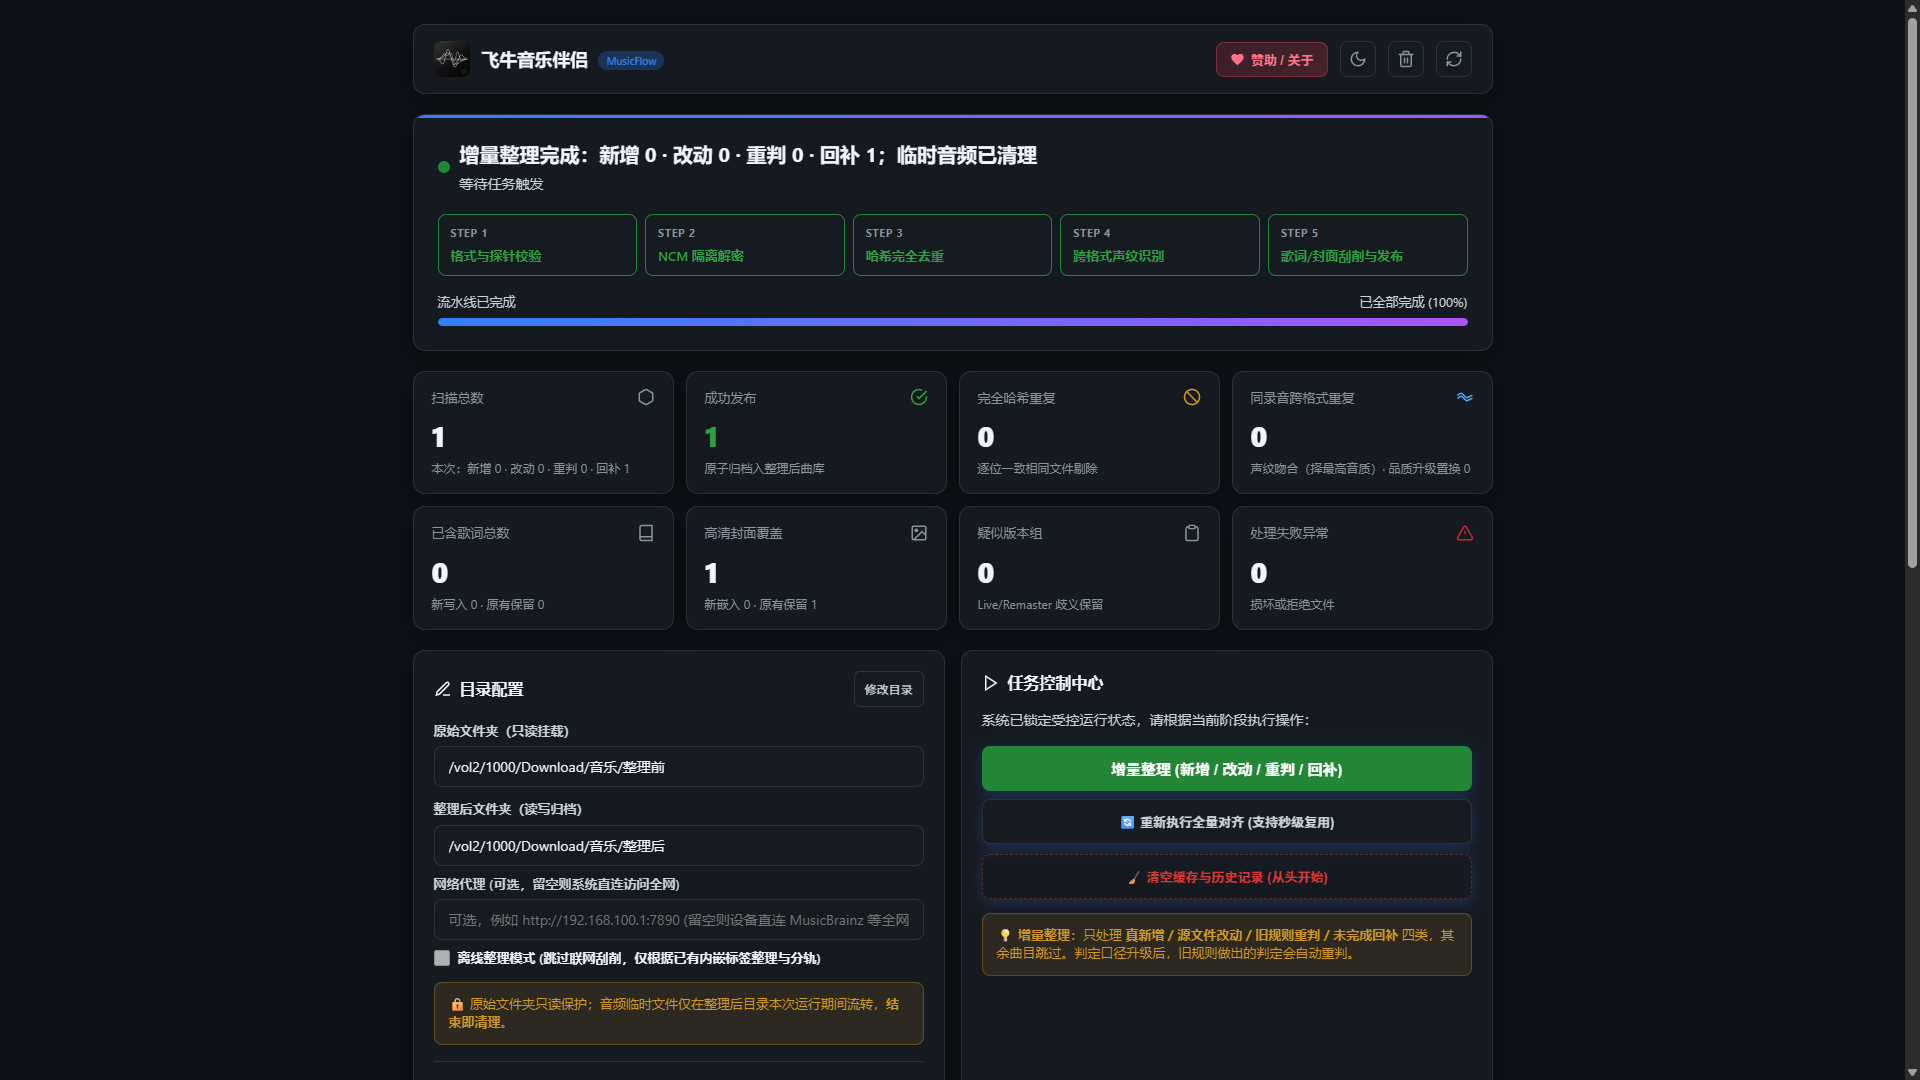
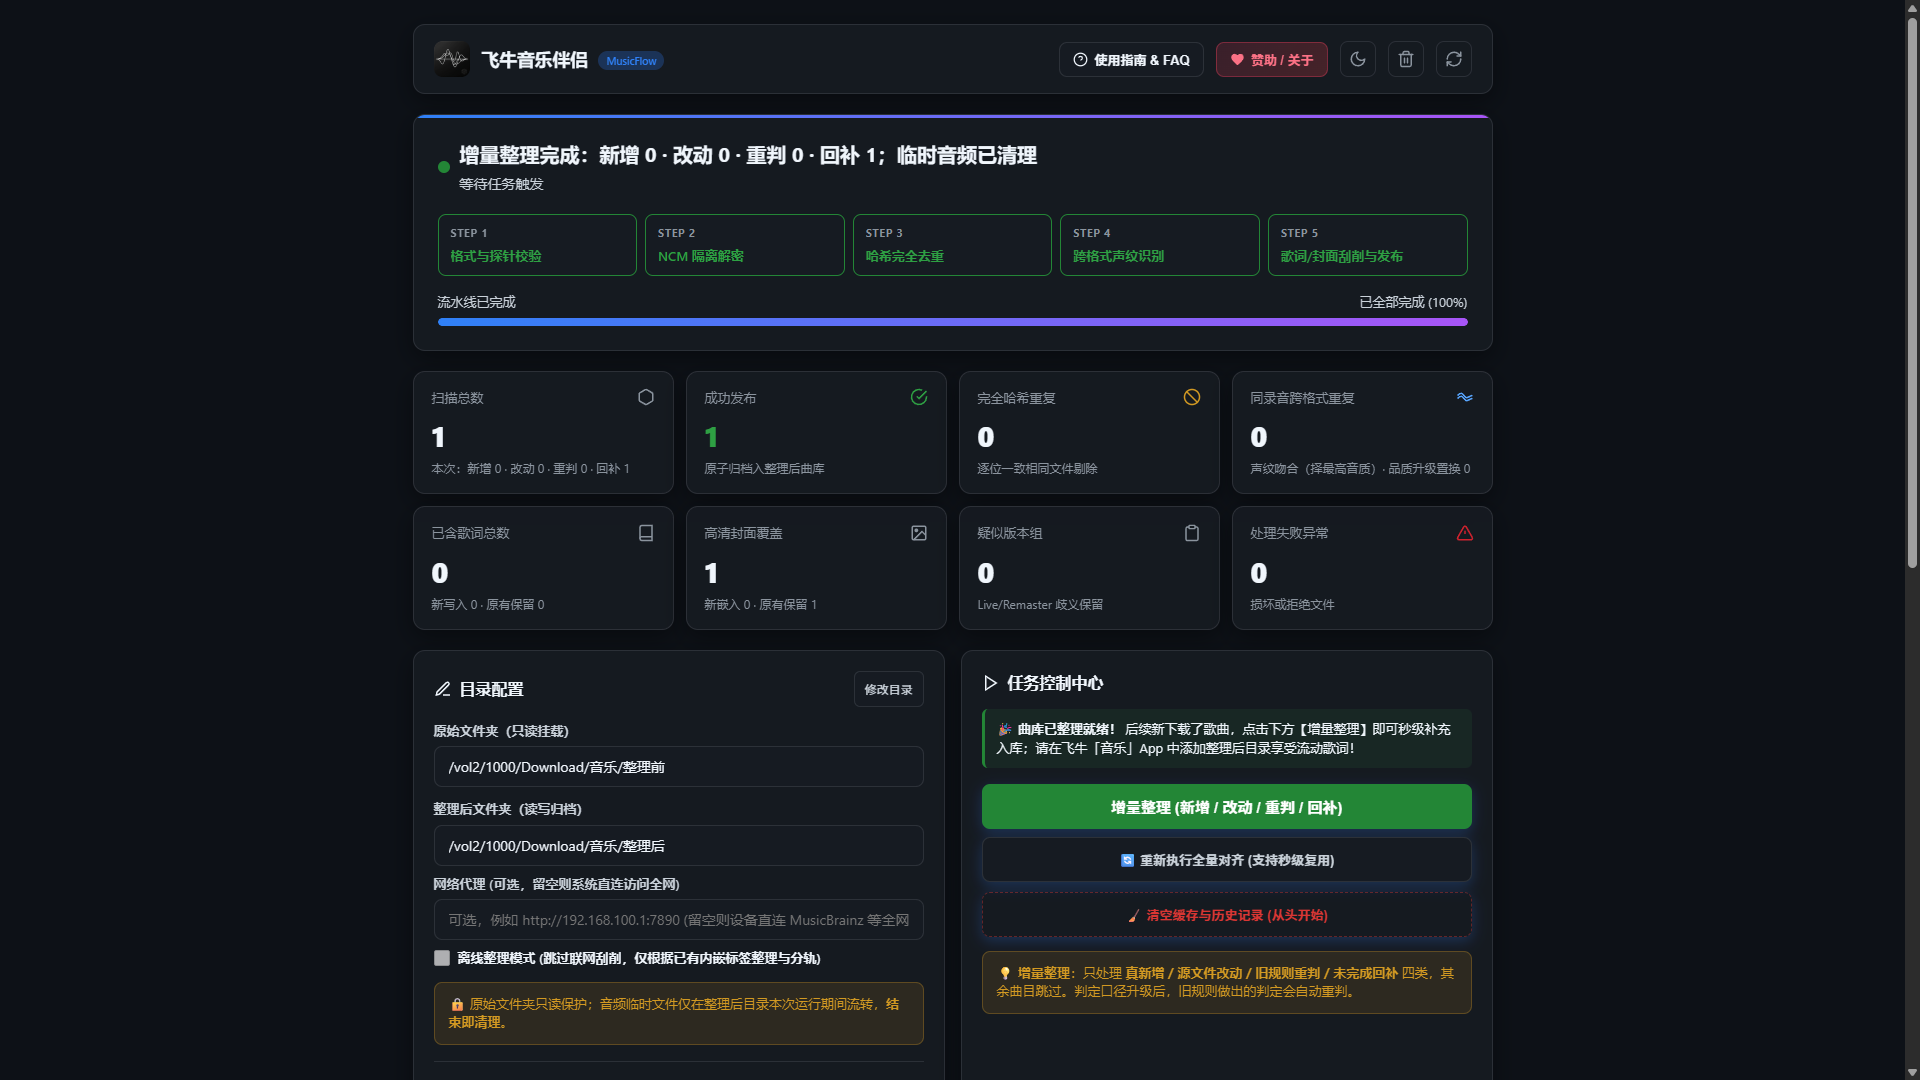
docs(onboarding): add 3-minute beginner guide, fnOS music linkage, and updated UI screenshot

Changed region(s): [[0.5, 0.6417, 0.7812, 0.9472], [0.5625, 0.0306, 0.625, 0.0611]]

diff --git a/rebuild/dashboard.html b/rebuild/dashboard.html
@@ -915,6 +915,10 @@
         </div>
       </div>
       <div class="header-actions">
+        <button class="btn-sponsor" id="guideBtn" style="background: var(--bg-subtle); border-color: var(--card-border); color: var(--text);" title="新手极速上手与常见问题" onclick="openAboutModal('guide')">
+          <svg width="15" height="15" viewBox="0 0 24 24" fill="none" stroke="currentColor" stroke-width="2"><circle cx="12" cy="12" r="10"></circle><path d="M9.09 9a3 3 0 0 1 5.83 1c0 2-3 3-3 3"></path><line x1="12" y1="17" x2="12.01" y2="17"></line></svg>
+          <span>使用指南 & FAQ</span>
+        </button>
         <button class="btn-sponsor" id="sponsorBtn" title="赞助支持与关于应用" onclick="openAboutModal('sponsor')">
           <svg width="15" height="15" viewBox="0 0 24 24" fill="currentColor"><path d="M12 21.35l-1.45-1.32C5.4 15.36 2 12.28 2 8.5 2 5.42 4.42 3 7.5 3c1.74 0 3.41.81 4.5 2.09C13.09 3.81 14.76 3 16.5 3 19.58 3 22 5.42 22 8.5c0 3.78-3.4 6.86-8.55 11.54L12 21.35z"/></svg>
           <span>赞助 / 关于</span>
@@ -1104,7 +1108,9 @@
           任务控制中心
         </div>
         <div id="actionArea">
-          <p style="color: var(--text-secondary); font-size: 14px; margin-bottom: 12px;">系统已锁定受控运行状态，请根据当前阶段执行操作：</p>
+          <div id="onboardingBanner" style="background: rgba(56, 189, 248, 0.08); border-left: 3px solid #38bdf8; padding: 10px 12px; border-radius: 6px; font-size: 13px; line-height: 1.5; color: var(--text); margin-bottom: 12px;">
+            <span>✨ <b>极速上手提示</b>：请先检查左侧目录，再点击下方【开始验证样本】安全试跑 10 首歌（沙盒模拟，不写物理文件）。</span>
+          </div>
           <button class="btn-main" id="actionBtn" disabled>
             <span id="actionBtnText">加载中...</span>
           </button>
@@ -1195,14 +1201,99 @@
       </div>
       
       <div class="modal-tabs">
-        <button class="modal-tab-btn active" id="tabBtnSponsor" onclick="switchModalTab('sponsor')">☕ 赞助打赏</button>
+        <button class="modal-tab-btn active" id="tabBtnGuide" onclick="switchModalTab('guide')">📖 极速上手 & FAQ</button>
         <button class="modal-tab-btn" id="tabBtnFeatures" onclick="switchModalTab('features')">🌟 架构设计与优势</button>
+        <button class="modal-tab-btn" id="tabBtnSponsor" onclick="switchModalTab('sponsor')">☕ 赞助打赏</button>
         <button class="modal-tab-btn" id="tabBtnAbout" onclick="switchModalTab('about')">ℹ 关于与 GitHub</button>
       </div>
 
       <div class="modal-body">
+        <!-- Tab 0: Guide & FAQ -->
+        <div class="tab-pane" id="paneGuide">
+          <div style="background: rgba(56, 189, 248, 0.08); border-left: 3px solid #38bdf8; padding: 12px 14px; border-radius: 6px; margin-bottom: 16px; font-size: 13px; line-height: 1.6;">
+            <strong>💡 飞牛音乐伴侣只需 3 步，即可打造属于你的完美私人曲库：</strong>
+          </div>
+
+          <div style="display: flex; flex-direction: column; gap: 12px; margin-bottom: 20px;">
+            <div style="display: flex; gap: 12px; align-items: flex-start; background: var(--bg-subtle); padding: 12px 14px; border-radius: 8px; border: 1px solid var(--card-border);">
+              <div style="width: 24px; height: 24px; border-radius: 50%; background: var(--primary); color: #fff; font-weight: 700; font-size: 13px; display: flex; align-items: center; justify-content: center; flex-shrink: 0;">1</div>
+              <div>
+                <div style="font-weight: 600; font-size: 14px; margin-bottom: 4px;">确认目录（原始音乐与整理后曲库）</div>
+                <div style="font-size: 12px; color: var(--text-secondary); line-height: 1.5;">
+                  • <b>原始文件夹</b>：你的音乐下载目录。系统会以底层只读（:ro）保护，<b>绝对不会修改、删除或破坏你的原文件</b>。<br>
+                  • <b>整理后文件夹</b>：用于存放标准化分类（歌手/专辑/曲目）后的正式曲库。<b>Btrfs 零拷贝机制不会占用额外硬盘空间</b>。<br>
+                  • <i>快捷提示：在飞牛桌面打开「文件管理」-> 右键文件夹「属性」-> 点击「位置」右侧复制图标即可粘贴真实路径。</i>
+                </div>
+              </div>
+            </div>
+
+            <div style="display: flex; gap: 12px; align-items: flex-start; background: var(--bg-subtle); padding: 12px 14px; border-radius: 8px; border: 1px solid var(--card-border);">
+              <div style="width: 24px; height: 24px; border-radius: 50%; background: var(--primary); color: #fff; font-weight: 700; font-size: 13px; display: flex; align-items: center; justify-content: center; flex-shrink: 0;">2</div>
+              <div>
+                <div style="font-weight: 600; font-size: 14px; margin-bottom: 4px;">首次试跑：点击【样本验证】</div>
+                <div style="font-size: 12px; color: var(--text-secondary); line-height: 1.5;">
+                  系统会自动抽取 10 首样本在内存沙盒中模拟探针、NCM解密、声纹识别与 QQ/网易云双引擎刮削。<br>
+                  <b>样本验证阶段不会向整理后目录写入任何文件</b>，仅用于让你确认封面、歌词与网络连通性。验证通过后即可一键全量整理。
+                </div>
+              </div>
+            </div>
+
+            <div style="display: flex; gap: 12px; align-items: flex-start; background: var(--bg-subtle); padding: 12px 14px; border-radius: 8px; border: 1px solid var(--card-border);">
+              <div style="width: 24px; height: 24px; border-radius: 50%; background: var(--success); color: #fff; font-weight: 700; font-size: 13px; display: flex; align-items: center; justify-content: center; flex-shrink: 0;">3</div>
+              <div>
+                <div style="font-weight: 600; font-size: 14px; margin-bottom: 4px;">联动收听：在飞牛自带「音乐」App 中添加媒体库</div>
+                <div style="font-size: 12px; color: var(--text-secondary); line-height: 1.5;">
+                  整理完成后，打开飞牛桌面或手机端的<b>「飞牛音乐」App</b>，进入设置 -> 媒体库，把刚才设置的<b>「整理后文件夹」</b>添加进去。<br>
+                  飞牛音乐会自动秒级索引，精美高清封面墙与双语流动歌词即可无缝呈现！
+                </div>
+              </div>
+            </div>
+          </div>
+
+          <div style="font-weight: 700; font-size: 14px; margin-bottom: 10px; display: flex; align-items: center; gap: 6px;">
+            <span>❓ 常见问题答疑 (FAQ)</span>
+          </div>
+
+          <div class="faq-list" style="display: flex; flex-direction: column; gap: 10px; font-size: 13px;">
+            <details style="background: var(--bg-subtle); padding: 10px 14px; border-radius: 6px; border: 1px solid var(--card-border);">
+              <summary style="font-weight: 600; cursor: pointer;">Q1: 会不会误删或改乱我原始下载目录里的歌曲？</summary>
+              <div style="margin-top: 8px; color: var(--text-secondary); font-size: 12px; line-height: 1.5;">
+                <b>100% 绝对不会。</b>原始音乐目录在系统底层采用 Docker 物理只读挂载（<code>:ro</code>），代码层面彻底剥离了删除和重命名指令。无论发生断电或误操作，原始文件依然原封不动。
+              </div>
+            </details>
+
+            <details style="background: var(--bg-subtle); padding: 10px 14px; border-radius: 6px; border: 1px solid var(--card-border);">
+              <summary style="font-weight: 600; cursor: pointer;">Q2: 为什么整理后飞牛自带的「音乐」App 里没看到歌曲？</summary>
+              <div style="margin-top: 8px; color: var(--text-secondary); font-size: 12px; line-height: 1.5;">
+                飞牛自带的「音乐」App 拥有独立的媒体库设置。请打开飞牛「音乐」App -> 点击「设置」-> 进入「媒体库设置」-> 点击「添加文件夹」，选中你设置的<b>整理后文件夹</b>，飞牛音乐就会立即自动收录！
+              </div>
+            </details>
+
+            <details style="background: var(--bg-subtle); padding: 10px 14px; border-radius: 6px; border: 1px solid var(--card-border);">
+              <summary style="font-weight: 600; cursor: pointer;">Q3: 后面我新下载了歌曲，该怎么整理？会重复处理老歌吗？</summary>
+              <div style="margin-top: 8px; color: var(--text-secondary); font-size: 12px; line-height: 1.5;">
+                直接点击控制台的<b>【增量整理】</b>按钮即可！系统通过 SQLite 全生命周期账本精准追踪每个文件的哈希与修改时间，已整理完成的老歌直接纳秒级跳过，仅抓取新下载的文件，几秒钟即可完成补充。
+              </div>
+            </details>
+
+            <details style="background: var(--bg-subtle); padding: 10px 14px; border-radius: 6px; border: 1px solid var(--card-border);">
+              <summary style="font-weight: 600; cursor: pointer;">Q4: 所谓的 Btrfs 零物理空间占用是什么意思？</summary>
+              <div style="margin-top: 8px; color: var(--text-secondary); font-size: 12px; line-height: 1.5;">
+                飞牛系统默认采用 Btrfs 文件系统。在发布歌曲时，本软件优先使用底层写时复制（Reflink CoW）。原文件和整理库文件共享同一块底层磁盘数据，即便整理出 100GB 的规范目录，新增的物理硬盘占用几乎为 0（仅写入标签与封面差异块）。
+              </div>
+            </details>
+
+            <details style="background: var(--bg-subtle); padding: 10px 14px; border-radius: 6px; border: 1px solid var(--card-border);">
+              <summary style="font-weight: 600; cursor: pointer;">Q5: 离线整理模式是什么时候使用的？</summary>
+              <div style="margin-top: 8px; color: var(--text-secondary); font-size: 12px; line-height: 1.5;">
+                如果你的 NAS 处于纯局域网、无法访问外网，或者你已经对歌曲内嵌了完整的标签只想快速归档分目录，可以在配置中勾选「离线整理模式」。该模式完全不发起外网网络请求，纯靠本地内嵌标签整理，速度极快。
+              </div>
+            </details>
+          </div>
+        </div>
+
         <!-- Tab 1: Sponsor -->
-        <div class="tab-pane" id="paneSponsor">
+        <div class="tab-pane" id="paneSponsor" style="display: none;">
           <div class="sponsor-notice">
             <p><strong>感谢支持开源！</strong> 本项目为 100% 独立全开源作品，永久免费，无任何收费解锁、功能限制或商业捆绑。</p>
             <p style="margin-top:6px;font-size:12px;color:var(--text-secondary);">如果您觉得它帮您理顺了混乱的海量曲库，或者利用 <b>Btrfs 零拷贝 (Reflink CoW)</b> 帮您省下了宝贵的 NAS 存储空间与排查时间，欢迎请作者喝一杯咖啡 ☕，鼓励更多功能迭代与官方应用商店维护！</p>
@@ -1559,27 +1650,49 @@
         editDirBtn.style.display = isRunning ? "none" : "inline-flex";
       }
 
+      const ob = document.getElementById("onboardingBanner");
+
       if (isRunning) {
         btnText.textContent = "整理流水线正在运行中...";
         btn.style.background = "var(--primary)";
+        if (ob) {
+          ob.style.background = "rgba(47, 129, 247, 0.1)";
+          ob.style.borderColor = "var(--primary)";
+          ob.innerHTML = "⚙ <b>流水线运行中</b>：正在自动执行声纹波形比对去重与正版歌词封面刮削，已完成曲目已实时写入，请安心等待。";
+        }
       } else if (isInit) {
         btnText.textContent = "增量整理 (新增 / 改动 / 重判 / 回补)";
         btn.style.background = "var(--success)";
         btn.dataset.mode = "incremental";
         hint.style.display = "block";
         hint.innerHTML = "💡 <strong>增量整理</strong>：只处理 <b>真新增 / 源文件改动 / 旧规则重判 / 未完成回补</b> 四类，其余曲目跳过。判定口径升级后，旧规则做出的判定会自动重判。";
+        if (ob) {
+          ob.style.background = "rgba(46, 160, 67, 0.1)";
+          ob.style.borderColor = "var(--success)";
+          ob.innerHTML = "🎉 <b>曲库已整理就绪！</b> 后续新下载了歌曲，点击下方【增量整理】即可秒级补充入库；请在飞牛「音乐」App 中添加整理后目录享受流动歌词！";
+        }
       } else if (isSampled) {
         btnText.textContent = "启动全量整理 (支持断点续跑)";
         btn.style.background = "var(--primary)";
         btn.dataset.mode = "full";
         hint.style.display = "block";
         hint.innerHTML = "💡 <strong>智能幂等全量</strong>：支持断点续跑与缓存复用。已处理的文件将秒级复用，系统自动处理未完成和失败的文件。";
+        if (ob) {
+          ob.style.background = "rgba(56, 189, 248, 0.1)";
+          ob.style.borderColor = "#38bdf8";
+          ob.innerHTML = "✅ <b>样本测试已通过！</b> 刮削与环境验证一切正常，请点击下方【启动全量整理】开始正式对齐整理。";
+        }
       } else {
         btnText.textContent = "开始验证样本 (抽样 10 首)";
         btn.style.background = "var(--primary)";
         btn.dataset.mode = "sample";
         hint.style.display = "block";
         hint.innerHTML = "💡 <strong>安全保障</strong>：全量前必须先通过小样本校验。样本阶段不向整理后目录发布文件。";
+        if (ob) {
+          ob.style.background = "rgba(56, 189, 248, 0.1)";
+          ob.style.borderColor = "#38bdf8";
+          ob.innerHTML = "✨ <b>首次使用引导</b>：请先检查左侧目录，再点击下方【开始验证样本】安全试跑 10 首歌（沙盒模拟，不写物理文件）。";
+        }
       }
     }
 
@@ -1807,7 +1920,7 @@
     // About & Sponsor Modal Logic
     let currentQRType = "alipay";
 
-    function openAboutModal(tab = "sponsor") {
+    function openAboutModal(tab = "guide") {
       const modal = document.getElementById("aboutModal");
       if (!modal) return;
       switchModalTab(tab);
@@ -1837,7 +1950,7 @@
     });
 
     function switchModalTab(tabName) {
-      ["sponsor", "features", "about"].forEach(tab => {
+      ["guide", "sponsor", "features", "about"].forEach(tab => {
         const btn = document.getElementById("tabBtn" + tab.charAt(0).toUpperCase() + tab.slice(1));
         const pane = document.getElementById("pane" + tab.charAt(0).toUpperCase() + tab.slice(1));
         if (btn) btn.classList.toggle("active", tab === tabName);

diff --git a/README.md b/README.md
@@ -154,6 +154,35 @@ docker compose up -d
 
 ---
 
+## 🚀 小白 3 分钟零门槛极速上手指南
+
+很多同学第一次在 NAS 上整理音乐，不知道从何下手，其实只需简单的 3 步：
+
+### 第一步：在飞牛桌面获取你的音乐文件夹路径
+> 💡 **飞牛文件路径极速获取技巧**：
+> 1. 打开飞牛桌面上的 **「文件管理」**。
+> 2. 找到你的音乐文件夹（例如装有下载歌单的文件夹）。
+> 3. 鼠标右键点击该文件夹，选择 **「属性」**。
+> 4. 点击 **「位置」** 右侧的小剪贴板图标（复制图标），即可得到真实路径（格式通常如 `/vol1/1000/Music/Downloads`）。
+
+### 第二步：安装与目录授权
+1. 在飞牛 **应用中心** 安装「飞牛音乐伴侣」。
+2. 在弹出的向导配置中粘贴你的路径：
+   - **原始文件夹（只读）**：粘贴存放未整理杂乱音乐的路径（系统强制只读挂载，**绝不修改、绝不删除原始文件**）。
+   - **整理后文件夹（读写）**：粘贴准备存放规范曲库的目标路径（建议在同一存储池，享受 Btrfs 零拷贝秒级克隆）。
+3. 安装完成后，在桌面打开应用即可进入控制台。
+
+### 第三步：一键运行与飞牛自带「音乐」App 联动
+1. **一键验证**：首次进入点击【开始样本验证 (10首)】，几秒内体验声纹与刮削效果。
+2. **正式整理**：点击【开始全量整理】，数千首音乐几分钟内全自动完成去重、解密、重命名和封面歌词下载。
+3. **点亮飞牛原生音乐播放器**：
+   - 打开飞牛桌面自带的 **「音乐」** App。
+   - 点击右上角或设置中的 **「添加媒体库」**。
+   - 路径选中您刚才配置的 **「整理后文件夹」**。
+   - 飞牛音乐即可秒级呈现规整的海报墙、精准的歌手专辑分类与动态双语滚动歌词！
+
+---
+
 ## 🖥 Web 交互仪表盘操作说明
 
 1. **样本验证 (Sample Mode)**：
@@ -165,7 +194,10 @@ docker compose up -d
 3. **增量整理 (Incremental Mode)**：
    - 后续当您的下载目录有新歌入库时，点击“整理新增音乐”。
    - 系统仅比对变更文件，以极快的速度完成新歌整理并补充至曲库。
-4. **实时遥测指标 (Real-Time Telemetry)**：
+4. **纯离线模式 (Offline Mode)**：
+   - 如果您的 NAS 处于纯局域网或离线环境，可在右上角设置中一键勾选【离线模式】。
+   - 离线模式下跳过云端刮削，直接利用内嵌标签与声纹指纹极速整理，毫秒级就绪。
+5. **实时遥测指标 (Real-Time Telemetry)**：
    - 仪表盘实时更新：扫描总数、发布成功数、SHA256 完全重复数、跨格式声纹重复数、歌词内嵌/外挂覆盖率、封面嵌入覆盖率等关键 KPI。
 
 ---
